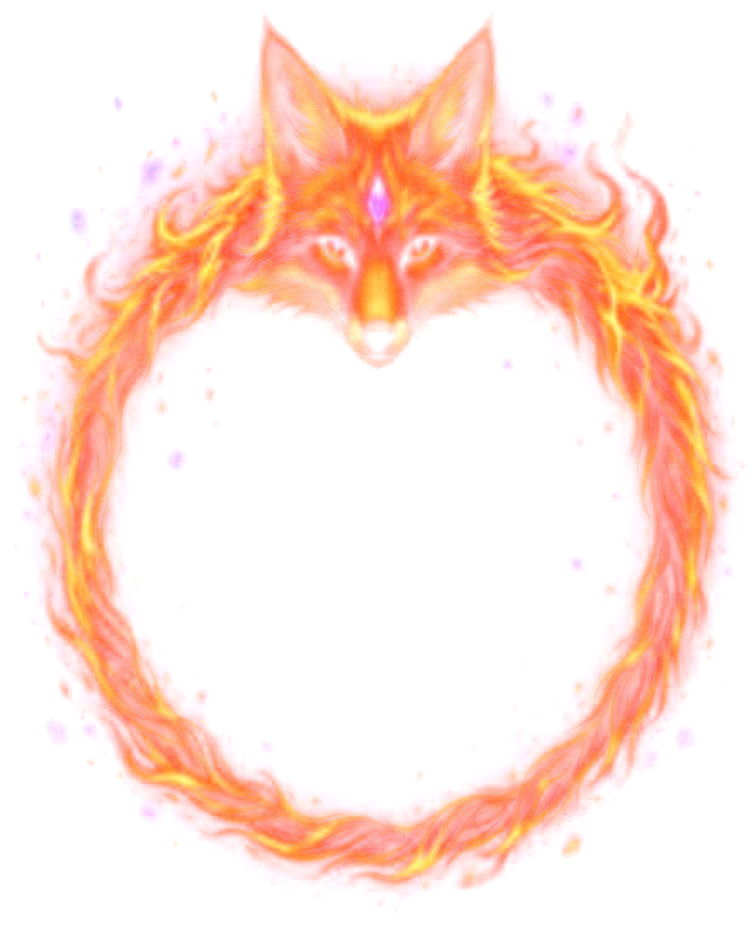
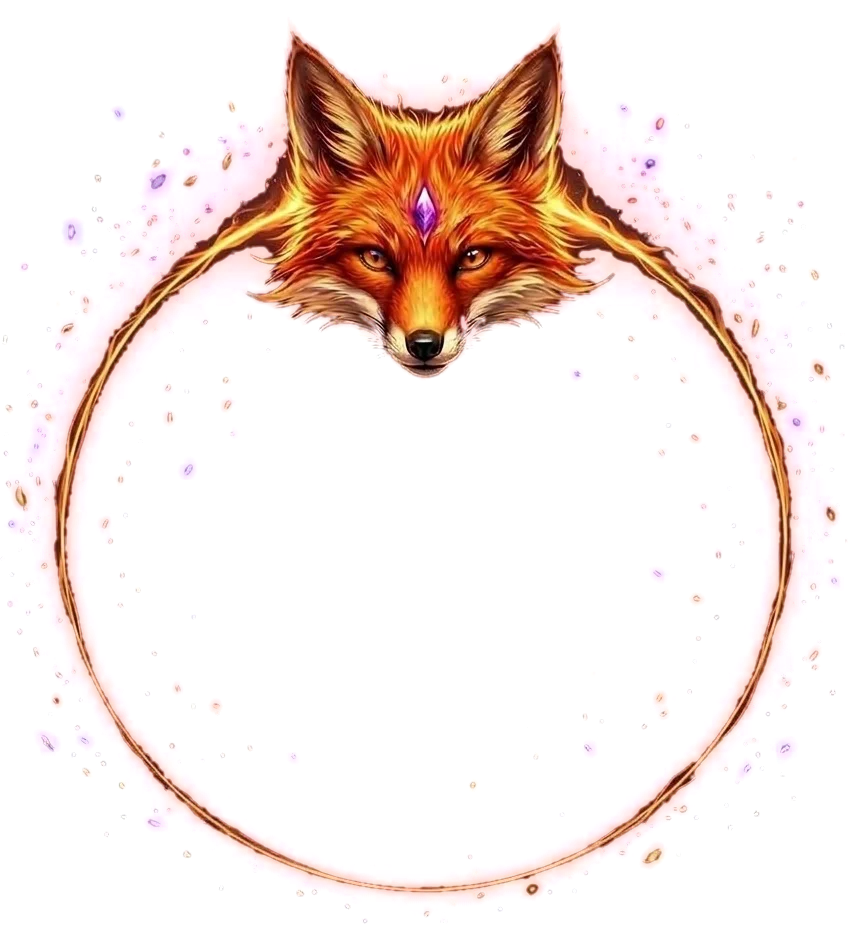
feat(community): new Fox Spirit frame, bigger wheel centred in the ring
- Swap in the new artwork (thin round ring): no horizontal squeeze needed,
  the wheel now fills the whole ring and is centred in it, and the stage
  is centred vertically in the viewport.
- tools/community-frame.mjs gains --hole x,y: the drawing itself becomes
  opaque (flood-fill from the border and the hole finds the background,
  edge feathered), so the fox's head hides the wheel under it instead of
  letting slices show through its nose and darker fur.
- Winner effect: particles spawned per second and capped, and halos drawn
  as two fills instead of shadowBlur. Spawning per frame piled up
  thousands of blurred particles on slow devices and made the page stop
  responding to Close.

Claude-Session: https://claude.ai/code/session_01QQzMDwNzGRpAM39qbcBZeB

diff --git a/src/app/feature/community-wheels/community-winner/community-winner.ts b/src/app/feature/community-wheels/community-winner/community-winner.ts
@@ -34,6 +34,14 @@ interface Spark {
 
 /** Seconds between two bursts of sparks from the centre. */
 const BURST_EVERY_S = 1.1;
+/**
+ * Spawn by time and cap the totals: spawning per frame piled up thousands of
+ * particles on slow devices (a long frame is clamped to 50 ms, so particles
+ * outlive more frames), and the page stopped responding to the Close button.
+ */
+const EMBERS_PER_SECOND = 70;
+const MAX_EMBERS = 200;
+const MAX_SPARKS = 450;
 
 /**
  * The winner reveal of a community wheel: a spirit fire in the wheel's own
@@ -105,11 +113,12 @@ export class CommunityWinner {
     const sparks: Spark[] = [];
     let last = performance.now();
     let sinceBurst = 0;
+    let emberDebt = 0;
 
     const burst = (count: number) => {
       const cx = canvas.width / 2;
       const cy = canvas.height / 2;
-      for (let i = 0; i < count; i += 1) {
+      for (let i = 0; i < count && sparks.length < MAX_SPARKS; i += 1) {
         const angle = Math.random() * Math.PI * 2;
         const speed = 120 + Math.random() * 520;
         sparks.push({
@@ -138,24 +147,26 @@ export class CommunityWinner {
       ctx.fillStyle = glow;
       ctx.fillRect(0, height * 0.55, width, height * 0.45);
 
-      if (!reducedMotion || embers.length < 40) {
-        for (let i = 0; i < (reducedMotion ? 1 : 10); i += 1) {
-          const maxLife = 1.6 + Math.random() * 1.8;
-          embers.push({
-            x: Math.random() * width,
-            y: height + 10,
-            vx: (Math.random() - 0.5) * 40,
-            vy: -(70 + Math.random() * 170),
-            life: maxLife,
-            maxLife,
-            size: 1.5 + Math.random() * 3.5,
-            color: pick(),
-          });
+      emberDebt += dt * (reducedMotion ? EMBERS_PER_SECOND / 6 : EMBERS_PER_SECOND);
+      for (; emberDebt >= 1; emberDebt -= 1) {
+        if (embers.length >= (reducedMotion ? 40 : MAX_EMBERS)) {
+          continue;
         }
+        const maxLife = 1.6 + Math.random() * 1.8;
+        embers.push({
+          x: Math.random() * width,
+          y: height + 10,
+          vx: (Math.random() - 0.5) * 40,
+          vy: -(70 + Math.random() * 170),
+          life: maxLife,
+          maxLife,
+          size: 1.5 + Math.random() * 3.5,
+          color: pick(),
+        });
       }
 
       sinceBurst += dt;
-      if (sinceBurst >= BURST_EVERY_S && (!reducedMotion || sparks.length === 0)) {
+      if (sinceBurst >= BURST_EVERY_S) {
         sinceBurst = 0;
         burst(reducedMotion ? 30 : 110);
       }
@@ -175,13 +186,7 @@ export class CommunityWinner {
         ember.y += ember.vy * dt;
 
         const alpha = ember.life / ember.maxLife;
-        ctx.globalAlpha = alpha;
-        ctx.shadowBlur = 14;
-        ctx.shadowColor = ember.color;
-        ctx.fillStyle = ember.color;
-        ctx.beginPath();
-        ctx.arc(ember.x, ember.y, ember.size * (0.6 + alpha * 0.6), 0, Math.PI * 2);
-        ctx.fill();
+        drawGlowDot(ctx, ember.x, ember.y, ember.size * (0.6 + alpha * 0.6), ember.color, alpha);
       }
 
       for (let i = sparks.length - 1; i >= 0; i -= 1) {
@@ -196,17 +201,10 @@ export class CommunityWinner {
         spark.x += spark.vx * dt;
         spark.y += spark.vy * dt;
 
-        ctx.globalAlpha = spark.life;
-        ctx.shadowBlur = 18;
-        ctx.shadowColor = spark.color;
-        ctx.fillStyle = spark.color;
-        ctx.beginPath();
-        ctx.arc(spark.x, spark.y, spark.size, 0, Math.PI * 2);
-        ctx.fill();
+        drawGlowDot(ctx, spark.x, spark.y, spark.size, spark.color, spark.life);
       }
 
       ctx.globalAlpha = 1;
-      ctx.shadowBlur = 0;
       ctx.globalCompositeOperation = 'source-over';
       this.frameId = requestAnimationFrame(frame);
     };
@@ -215,4 +213,27 @@ export class CommunityWinner {
     burst(reducedMotion ? 60 : 260);
     this.frameId = requestAnimationFrame(frame);
   }
+}
+
+/**
+ * A dot with a soft halo. Two plain fills instead of `shadowBlur`, which blurs
+ * every particle separately and is what made the effect expensive.
+ */
+function drawGlowDot(
+  ctx: CanvasRenderingContext2D,
+  x: number,
+  y: number,
+  radius: number,
+  color: string,
+  alpha: number
+): void {
+  ctx.fillStyle = color;
+  ctx.globalAlpha = alpha * 0.16;
+  ctx.beginPath();
+  ctx.arc(x, y, radius * 2.2, 0, Math.PI * 2);
+  ctx.fill();
+  ctx.globalAlpha = alpha;
+  ctx.beginPath();
+  ctx.arc(x, y, radius, 0, Math.PI * 2);
+  ctx.fill();
 }

diff --git a/src/app/feature/community-wheels/community-wheel/community-wheel.html b/src/app/feature/community-wheels/community-wheel/community-wheel.html
@@ -17,50 +17,53 @@
       </h1>
     </header>
 
-    <!-- The frame artwork sits on top of the wheel, placed inside it by the fractions in the data file. There is no pointer of our own: the artwork's top (the fox's snout) is the pointer. -->
-    <div
-      class="wl-community-stage relative mt-2"
-      [style.width]="stageWidth()"
-      [style.aspectRatio]="wheelBox()?.aspectRatio">
-      <canvas
-        #wheelCanvas
-        width="720"
-        height="720"
-        class="wl-community-wheel absolute aspect-square cursor-pointer rounded-full"
-        [style.left]="wheelBox()?.left"
-        [style.top]="wheelBox()?.top"
-        [style.width]="wheelBox()?.width"
-        [style.transform]="'rotate(' + rotationDeg() + 'deg)'"
-        [style.transitionDuration]="spinning() ? data.spinDurationMs + 'ms' : '0ms'"
-        role="button"
-        tabindex="0"
-        [attr.aria-label]="labels.spin(data.name)"
-        (click)="spin()"
-        (keydown.enter)="spin()"
-        (keydown.space)="spin(); $event.preventDefault()"></canvas>
+    <!-- Takes the height left under the title, so the wheel sits in the middle of the screen. -->
+    <div class="flex w-full flex-1 items-center justify-center">
+      <!-- The frame artwork sits on top of the wheel, placed inside it by the fractions in the data file. There is no pointer of our own: the fox's snout, over the top of the wheel, is the pointer. -->
+      <div
+        class="wl-community-stage relative"
+        [style.width]="stageWidth()"
+        [style.aspectRatio]="wheelBox()?.aspectRatio">
+        <canvas
+          #wheelCanvas
+          width="720"
+          height="720"
+          class="wl-community-wheel absolute aspect-square cursor-pointer rounded-full"
+          [style.left]="wheelBox()?.left"
+          [style.top]="wheelBox()?.top"
+          [style.width]="wheelBox()?.width"
+          [style.transform]="'rotate(' + rotationDeg() + 'deg)'"
+          [style.transitionDuration]="spinning() ? data.spinDurationMs + 'ms' : '0ms'"
+          role="button"
+          tabindex="0"
+          [attr.aria-label]="labels.spin(data.name)"
+          (click)="spin()"
+          (keydown.enter)="spin()"
+          (keydown.space)="spin(); $event.preventDefault()"></canvas>
 
-      <img
-        [src]="data.frame.src"
-        [width]="data.frame.width"
-        [height]="data.frame.height"
-        alt=""
-        class="pointer-events-none absolute inset-0 z-10 h-full w-full select-none"
-        draggable="false" />
+        <img
+          [src]="data.frame.src"
+          [width]="data.frame.width"
+          [height]="data.frame.height"
+          alt=""
+          class="pointer-events-none absolute inset-0 z-10 h-full w-full select-none"
+          draggable="false" />
 
-      <button
-        type="button"
-        class="wl-community-hub absolute z-20 flex aspect-square items-center justify-center rounded-full text-xs font-black uppercase tracking-[0.12em] md:text-sm"
-        [style.left]="wheelBox()?.centerX"
-        [style.top]="wheelBox()?.centerY"
-        [style.width]="wheelBox()?.hubWidth"
-        [style.backgroundColor]="data.hub.color"
-        [style.borderColor]="data.hub.borderColor"
-        [style.color]="data.hub.textColor"
-        [disabled]="spinning() || !entries().length"
-        (click)="spin()"
-        [attr.aria-label]="labels.spin(data.name)">
-        <span i18n="@@community.page.hub">Spin</span>
-      </button>
+        <button
+          type="button"
+          class="wl-community-hub absolute z-20 flex aspect-square items-center justify-center rounded-full text-xs font-black uppercase tracking-[0.12em] md:text-sm"
+          [style.left]="wheelBox()?.centerX"
+          [style.top]="wheelBox()?.centerY"
+          [style.width]="wheelBox()?.hubWidth"
+          [style.backgroundColor]="data.hub.color"
+          [style.borderColor]="data.hub.borderColor"
+          [style.color]="data.hub.textColor"
+          [disabled]="spinning() || !entries().length"
+          (click)="spin()"
+          [attr.aria-label]="labels.spin(data.name)">
+          <span i18n="@@community.page.hub">Spin</span>
+        </button>
+      </div>
     </div>
   </section>
 

diff --git a/src/app/feature/community-wheels/community-wheels.data.ts b/src/app/feature/community-wheels/community-wheels.data.ts
@@ -77,17 +77,18 @@ export const COMMUNITY_WHEELS: readonly CommunityWheel[] = [
       colors: ['#8B3FE0', '#F2B632', '#D62839', '#6D28D9', '#E0A526', '#B91C3C'],
       gradientTo: ['#3B0A78', '#9A6206', '#6E0A1A', '#2E0A63', '#8A5A04', '#5C0718'],
     },
-    // The artwork is narrowed to 85% of its width (tools/community-frame.mjs
-    // --scale-x 0.85) so the elliptical ring comes out round and the wheel can
-    // fill it. The wheel's top touches the fox's snout, which is the pointer:
-    // keep wheelCenterX on the snout, or the winner no longer matches it.
+    // Generated with `tools/community-frame.mjs <art> frame.webp --crop 40,80,848,940
+    // --hole 423,700`. The wheel fills the round ring and is centred in it; the
+    // fox's head overlaps its top (made opaque by --hole) and the snout points
+    // down the vertical radius at the winning slice, so wheelCenterX must stay
+    // under the snout.
     frame: {
       src: '/community-art/fox-spirit/frame.webp',
-      width: 755,
-      height: 950,
-      wheelCenterX: 0.4999,
-      wheelCenterY: 0.6232,
-      wheelDiameter: 0.6993,
+      width: 848,
+      height: 940,
+      wheelCenterX: 0.4988,
+      wheelCenterY: 0.5638,
+      wheelDiameter: 0.8396,
     },
     background: {
       color: '#0b0512',

diff --git a/src/app/feature/community-wheels/community-wheel/community-wheel.ts b/src/app/feature/community-wheels/community-wheel/community-wheel.ts
@@ -376,7 +376,7 @@ export class CommunityWheelPage {
     });
   });
 
-  /** Same geometry as the main wheel: the pointer (the frame's snout) sits at the top. */
+  /** Same geometry as the main wheel: the pointer (the frame's snout) is on the top of the vertical radius. */
   private winnerAt(totalRotation: number, names: string[]): string {
     const normalized = (360 - (totalRotation % 360)) % 360;
     const adjusted = (normalized - 90 + 360) % 360;

diff --git a/CLAUDE.md b/CLAUDE.md
@@ -96,9 +96,9 @@ There is no purchase flow. The premium options are the `PremiumFeature`s — the
 ### Community wheels (`feature/community-wheels/`)
 Themed wheels made for a specific community, listed at `/community` and each on its own page at `/community/<slug>` (both prerendered). `COMMUNITY_WHEELS` in `community-wheels.data.ts` is the single source: route, list, prerender params and sitemap all read it.
 
-- **The look is locked**: frame artwork, background and palette live in the data file and the page never touches `WheelConfigurator`, so no settings panel can reach them. The visitor only edits the entries, saved per wheel in localStorage (`wheelr.communityWheel.entries.v1.<slug>`). Otherwise it behaves like the main wheel: idle drift, click the wheel or hub to spin, `DefaultSoundPlayer` ticks (the CSS easing must stay the main wheel's `cubic-bezier(0.15, 0, 0.15, 1)`, which the tick schedule assumes), names in a drawer from the right-hand rail (same controls as the `users` panel, sharing its i18n ids), winner read at the top. The winner reveal is `CommunityWinner`, not `FireEffect`: that one reads and writes `WheelConfigurator`. Drawer and winner card both register Android back handlers. There is no pointer element: the artwork points at the wheel (Fox Spirit's snout), so `wheelCenterX` must sit exactly under it.
+- **The look is locked**: frame artwork, background and palette live in the data file and the page never touches `WheelConfigurator`, so no settings panel can reach them. The visitor only edits the entries, saved per wheel in localStorage (`wheelr.communityWheel.entries.v1.<slug>`). Otherwise it behaves like the main wheel: idle drift, click the wheel or hub to spin, `DefaultSoundPlayer` ticks (the CSS easing must stay the main wheel's `cubic-bezier(0.15, 0, 0.15, 1)`, which the tick schedule assumes), names in a drawer from the right-hand rail (same controls as the `users` panel, sharing its i18n ids), winner read at the top. The winner reveal is `CommunityWinner`, not `FireEffect`: that one reads and writes `WheelConfigurator`. Drawer and winner card both register Android back handlers. There is no pointer element: the artwork points at the wheel (Fox Spirit's snout, over the top of the wheel on its vertical radius), so `wheelCenterX` must sit exactly under it.
 - **The frame is an image laid over the canvas**; the wheel is positioned inside it by `wheelCenterX`/`wheelCenterY`/`wheelDiameter`, fractions of the image (`frameLayout()`). Change the artwork → re-measure those.
-- Artwork lives in `public/community-art/<slug>/`, **not** `public/community/`, which would share a folder with the prerendered route. Art delivered on black goes through `node tools/community-frame.mjs <in> <out.webp> [--crop l,t,w,h] [--scale-x n]`, which turns the black into alpha (`--scale-x` narrows an elliptical ring so a round wheel can fill it; Fox Spirit uses `--crop 20,90,888,950 --scale-x 0.85`): `mix-blend-mode: screen` breaks as soon as an ancestor opens a stacking context.
+- Artwork lives in `public/community-art/<slug>/`, **not** `public/community/`, which would share a folder with the prerendered route. Art delivered on black goes through `node tools/community-frame.mjs <in> <out.webp> [--crop l,t,w,h] [--scale-x n] [--hole x,y]`, which turns the black into alpha (`--scale-x` narrows an elliptical ring so a round wheel can fill it; `--hole`, a point inside the ring, makes the drawing itself opaque so a head overlapping the wheel hides it; Fox Spirit uses `--crop 40,80,848,940 --hole 423,700`): `mix-blend-mode: screen` breaks as soon as an ancestor opens a stacking context.
 - New wheel: a data entry, its art, and translations for its `community.<slug>.*` ids (`npm run i18n`), then `npm run sitemap`.
 
 ### Ads (`ads.service.ts`, app only)
